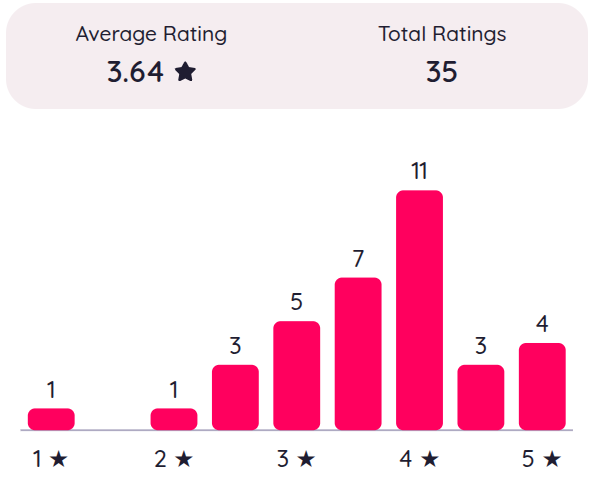
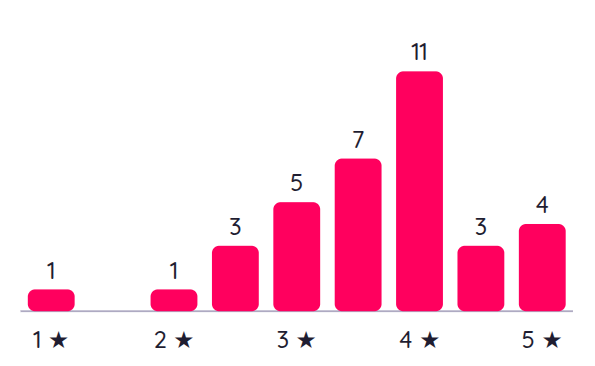
Minor projects styling fixes

diff --git a/src/components/Bodies.jsx b/src/components/Bodies.jsx
@@ -3,6 +3,7 @@ import { Link } from 'react-router-dom';
 import PixelSprite from './PixelSprite';
 import Shelf from './Shelf';
 import starStanding from '../assets/images/star_standing.svg';
+import walkEx from '../assets/images/walkEx.svg';
 import ratingGraph from '../assets/images/ratingGraph.png';
 import styles from '../styles/Project.module.css';
  
@@ -102,6 +103,8 @@ export default function Bodies({project}) {
        case 'DreamTrail':
            return (
                <div className={styles.element} style={{ gridColumn: '2 / span 8', gridRow: '5' }}>
+                    <img className={styles.displayImage} src={walkEx} alt="Katalogica" />
+
                    <h3>En dårlig oplevelse gav inspiration</h3>
                     <p>Sidste år downloadede jeg en app, der gav et spændende løfte: Hvis jeg kunne gå/løbe/cykle en længere distance, ville jeg blive belønnet med en specialdesignet medalje. Jeg skulle følge en fiktiv historie og gå i fodsporene på dens karakterer – virkeligt motiverende!</p> 
                     <p>Men sjældent har jeg haft en kedeligere oplevelse som bruger.</p>
@@ -135,13 +138,14 @@ export default function Bodies({project}) {
        case 'Katalogica':
            return (
                <div className={styles.element} style={{ gridColumn: '2 / span 8', gridRow: '5' }}>
+                    <img className={styles.displayImage} src="/projects/k_concept_dk.png" alt="Katalogica" />
+
+                   
                    <h3>En gigantisk udfordring løst med AI</h3>
                    <p>På Syddansk Universitet har biblioteket 100.000-vis af materialer, som brugerne ikke kan tilgå eller låne, fordi de ikke er registreret. På Det Kgl. Bibliotek overstiger antallet én million. Begge institutioner arbejder på sagen, men selv med</p>
                   
                    <p>En aften sad jeg og så Agatha Christies Poirot, da jeg fik en indskydelse, der skulle vise sig at gøre registreringen 10 gange hurtigere. Jeg skrev hurtigt et program, der kunne høste tekst fra et titelblad (selv med gamle krøllede bogstaver), sortere titel, forfatternavn, udgivelsesår mm. og således lave første udkast til en bibliotekspost på få sekunder. Dagen efter gik jeg til min leder på Syddansk Universitet – og jeg fik lov til at udvikle Katalogica.</p>
-                  
-                   <img className={styles.displayImage} src="/projects/k_concept_dk.png" alt="Katalogica" />
- 
+                   
                    <p>At læse titelblade for at producere poster automatisk var prøvet mange gange før. Mit producerede som det første inden for den danske biblioteksverden præcise nok resultater til at kunne bruges i det daglige – også når det kom til de krøllede gotiske bogstaver, som er at finde i mange ældre bøger.</p>
                   
                    <h3>Da AI ikke var nok, UX!</h3>

diff --git a/src/screens/Project.jsx b/src/screens/Project.jsx
@@ -53,17 +53,19 @@ export default function Project({projects, scrollRef}) {
                 <Bodies project={projectName} />
 
                 {project.link && (
-                    <div className={styles.visit} style={{ gridColumn: '4 / span 8', gridRow: '6', backgroundColor: project.color }}>
-                        <p>Besøg {projectName}</p>  
-                        <Link to={project.link} target="_blank" rel="noopener noreferrer">
-                            <img
-                                src={project.image}
-                                alt={projectName}
-                                className={styles.visitImage}
-                                onMouseEnter={() => setIsHovered(true)}
-                                onMouseLeave={() => setIsHovered(false)}
-                            />
-                        </Link>
+                    <div style={{ gridColumn: '2 / span 8', gridRow: '6', display: 'flex', justifyContent: 'center' }}>
+                        <div className={styles.visit} style={{ backgroundColor: project.color }}>
+                            <p>Besøg {projectName}</p>  
+                            <Link to={project.link} target="_blank" rel="noopener noreferrer">
+                                <img
+                                    src={project.image}
+                                    alt={projectName}
+                                    className={styles.visitImage}
+                                    onMouseEnter={() => setIsHovered(true)}
+                                    onMouseLeave={() => setIsHovered(false)}
+                                />
+                            </Link>
+                        </div>
                     </div>
                 )}
 

diff --git a/src/screens/Start.jsx b/src/screens/Start.jsx
@@ -123,7 +123,7 @@ export default function Start({scrollRef,topRef, projectsRef, contactRef, isLarg
             const projects = [
                 {
                     key: 'pageturner',
-                    message: 'Jeg gjorde det sjovt og intuitivt at holde styr på læsevaner',
+                    message: 'Jeg gjorde det sjovt og intuitivt at følge med i læsevaner',
                     color: 'var(--primary)'
                 },
                 {
@@ -133,12 +133,12 @@ export default function Start({scrollRef,topRef, projectsRef, contactRef, isLarg
                 },
                 {
                     key: 'dreamtrail',
-                    message: 'En dårlig oplevelse med andre apps gav inspiration',
+                    message: 'En dårlig oplevelse med andre produkter gav inspiration',
                     color: 'var(--fortiary)'
                 },
                 {
                     key: 'katalogica',
-                    message: 'Jeg gjorde det ti gange hurtigere at oprette poster på gamle bøger',
+                    message: 'Jeg gjorde det ti gange hurtigere at oprette poster til historiske bøger',
                     color: 'var(--tertiary)'
                 }
             ];
@@ -309,7 +309,7 @@ export default function Start({scrollRef,topRef, projectsRef, contactRef, isLarg
                         scale={5}
                     />
                 <Descriptor
-                    description="Den mest simple måde at holde styr på, hvad du læser"
+                    description="Den simpleste måde at holde styr på, hvad du læser"
                     goTo="/projekt/PageTurner"
                 />
             </FadeInOnScroll>

diff --git a/src/styles/Project.module.css b/src/styles/Project.module.css
@@ -95,7 +95,7 @@
     background-color: var(--secondary-background-color);
     color: black;
     height: 100%;
-    padding: 40px 40px 40px 40px;
+    padding: 40px;
 }
 
 .content {
@@ -218,12 +218,21 @@
         transform: translateY(0);
     }
 
+    .titleElement {
+        border-radius: 0px;
+        padding: 20px;
+    }
+
     .titleElement h1 {
         font-size: 50px;
     }
 
     .titleElement h2 {
         font-size: 20px;
+    }
+
+    .element {
+        padding: 20px;
     }
 
     .element h3 {

diff --git a/README.md b/README.md
@@ -6,11 +6,12 @@ I am a developer and UX designer based in Denmark. This project is primarily cre
 
 Visit my [portfolio](https://michaelmonefeldt.com/).
 
-![Portfolio of Michael Monefeldt](./screenshot.png)
+![Portfolio of Michael Monefeldt](./public/screenshot.png)
 
 ## Projects 
 
 In my portfolio, you can read about my projects:
+
 ### PageTurner
 A book-tracking app designed to motivate users to achieve their reading goals.
 
